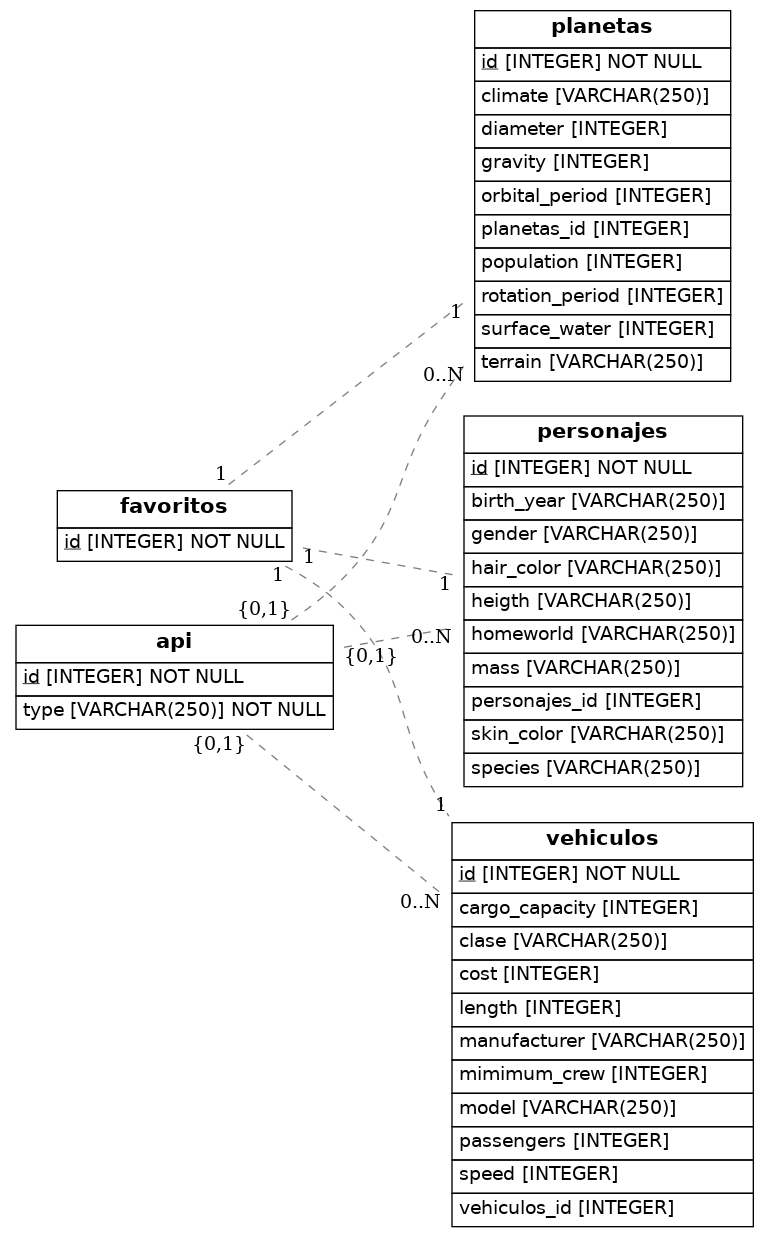
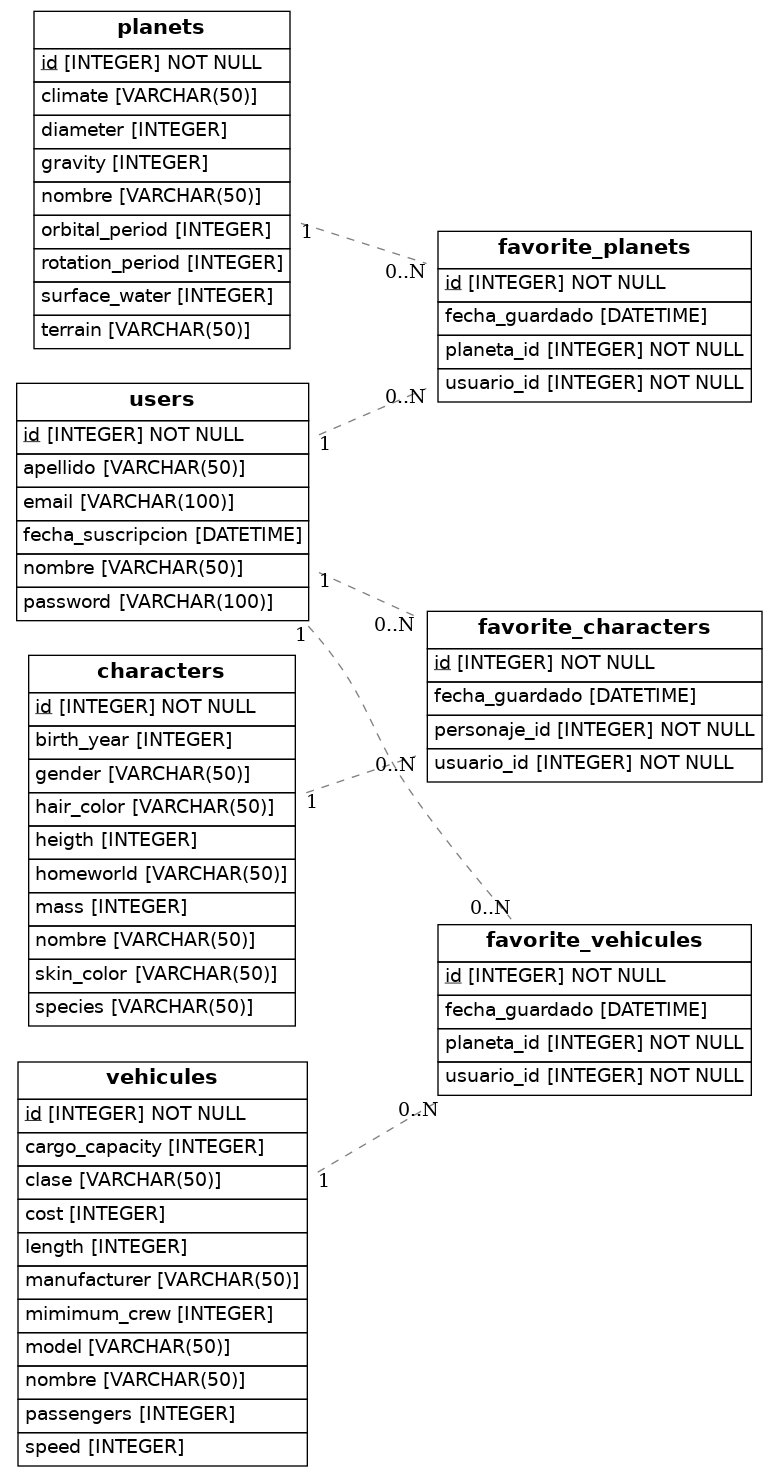
proyecto finalizado

Changed region(s): [[0.0, 0.0, 0.9987, 1.0], [0.4681, 0.3994, 0.5306, 0.4301]]

diff --git a/src/models.py b/src/models.py
@@ -1,61 +1,80 @@
 import os
 import sys
-from sqlalchemy import Column, ForeignKey, Integer, String
+from sqlalchemy import Column, ForeignKey, Integer, String, DateTime
 from sqlalchemy.orm import relationship, declarative_base
 from sqlalchemy import create_engine
 from eralchemy2 import render_er
 
 Base = declarative_base()
 
-class Favoritos(Base):
-    __tablename__ = 'favoritos'
-    id = Column(Integer, primary_key=True)
+class Users(Base):
+    __tablename__ = 'users'
+    id = Column(Integer, primary_key=True, autoincrement=True)
+    nombre = Column(String(50))
+    apellido = Column(String(50))
+    email = Column(String(100), unique=True)
+    password = Column(String(100))
+    fecha_suscripcion = Column(DateTime)
 
-class Api(Base):
-    __tablename__ = 'api'
-    id = Column(Integer, primary_key=True)
-    type = Column(String(250), nullable=False)
-
-class Personajes(Base):
-    __tablename__ = 'personajes'
-    id = Column(Integer, ForeignKey('favoritos.id'), primary_key=True)
-    personajes_id = Column(Integer, ForeignKey('api.id'))
-    birth_year = Column(String(250))
-    species = Column(String(250))
-    heigth = Column(String(250))
-    mass = Column(String(250))
-    gender = Column(String(250))
-    hair_color = Column(String(250))
-    skin_color = Column(String(250))
-    homeworld = Column(String(250))
-
-class Planetas(Base):
-    __tablename__ = 'planetas'
-    id = Column(Integer, ForeignKey('favoritos.id'), primary_key=True)
-    planetas_id = Column(Integer, ForeignKey('api.id'))
-    population = Column(Integer)
-    orbital_period = Column(Integer)
+class Planets(Base):
+    __tablename__ = 'planets'
+    id = Column(Integer, primary_key=True, autoincrement=True)
+    nombre = Column(String(50), unique=True)
     rotation_period = Column(Integer)
+    orbital_period = Column(Integer)
     diameter = Column(Integer)
     gravity = Column(Integer)
-    terrain = Column(String(250))
+    terrain = Column(String(50))
     surface_water = Column(Integer)
-    climate = Column(String(250))
+    climate = Column(String(50))
 
-class Vehiculos(Base):
-    __tablename__ = 'vehiculos'
-    id = Column(Integer, ForeignKey('favoritos.id'), primary_key=True)
-    vehiculos_id = Column(Integer, ForeignKey('api.id'))
-    model = Column(String(250))
-    manufacturer = Column(String(250))
-    clase = Column(String(250))
+class Characters(Base):
+    __tablename__ = 'characters'
+    id = Column(Integer, primary_key=True, autoincrement=True)
+    nombre = Column(String(50), unique=True)
+    birth_year = Column(Integer)
+    species = Column(String(50))
+    heigth = Column(Integer)
+    mass = Column(Integer)
+    gender = Column(String(50))
+    hair_color = Column(String(50))
+    skin_color = Column(String(50))
+    homeworld = Column(String(50))
+
+class Vehicules(Base):
+    __tablename__ = 'vehicules'
+    id = Column(Integer, primary_key=True, autoincrement=True)
+    nombre = Column(String(50), unique=True)
+    model = Column(String(50))
+    manufacturer = Column(String(50))
+    clase = Column(String(50))
     cost = Column(Integer)
     speed = Column(Integer)
     length = Column(Integer)
     cargo_capacity = Column(Integer)
     mimimum_crew = Column(Integer)
-    passengers = Column(Integer)
+    passengers= Column(Integer)
 
+class FavoritePlanets(Base):
+    __tablename__ = 'favorite_planets'
+    id = Column(Integer, primary_key=True, autoincrement=True)
+    usuario_id = Column(Integer, ForeignKey('users.id'), nullable=False)
+    planeta_id = Column(Integer, ForeignKey('planets.id'), nullable=False)
+    fecha_guardado = Column(DateTime)
+
+class FavoriteCharacters(Base):
+    __tablename__ = 'favorite_characters'
+    id = Column(Integer, primary_key=True, autoincrement=True)
+    usuario_id = Column(Integer, ForeignKey('users.id'), nullable=False)
+    personaje_id = Column(Integer, ForeignKey('characters.id'), nullable=False)
+    fecha_guardado = Column(DateTime)
+
+class FavoriteVehicules(Base):
+    __tablename__ = 'favorite_vehicules'
+    id = Column(Integer, primary_key=True, autoincrement=True)
+    usuario_id = Column(Integer, ForeignKey('users.id'), nullable=False)
+    planeta_id = Column(Integer, ForeignKey('vehicules.id'), nullable=False)
+    fecha_guardado = Column(DateTime)
     
 
     def to_dict(self):
